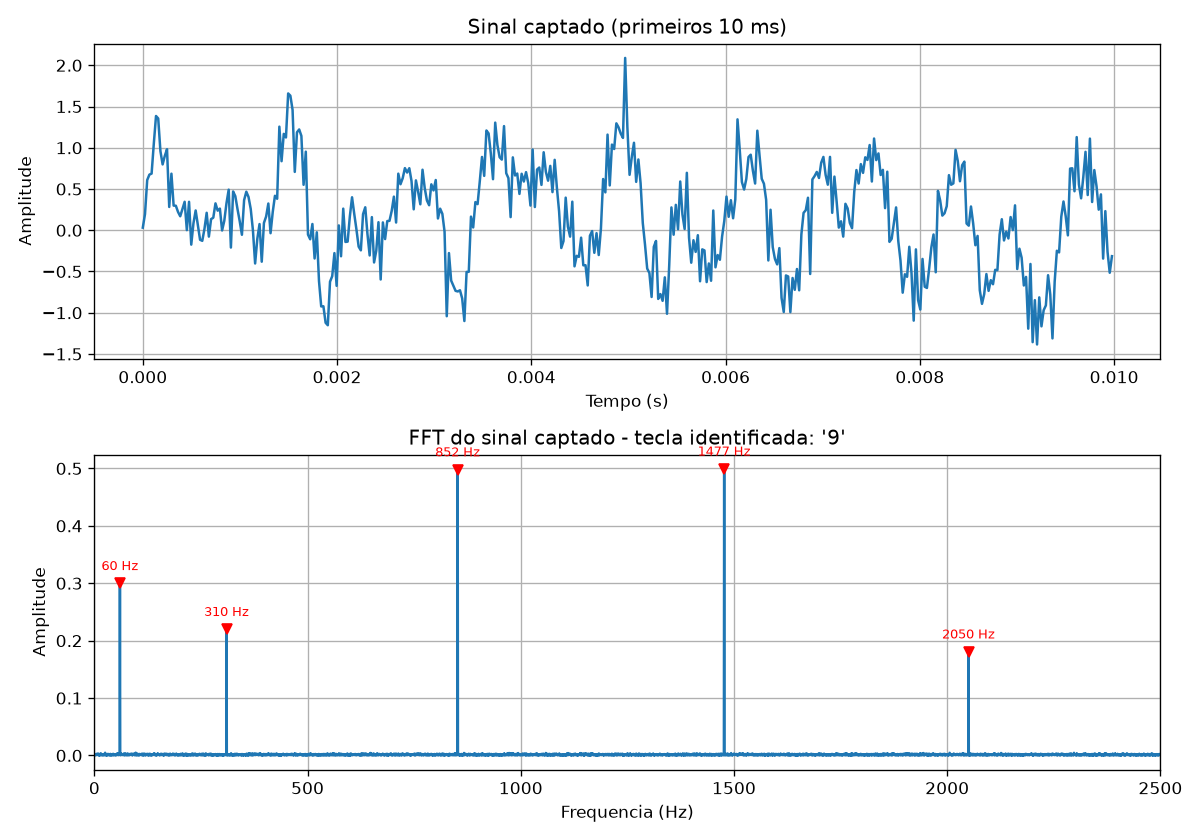
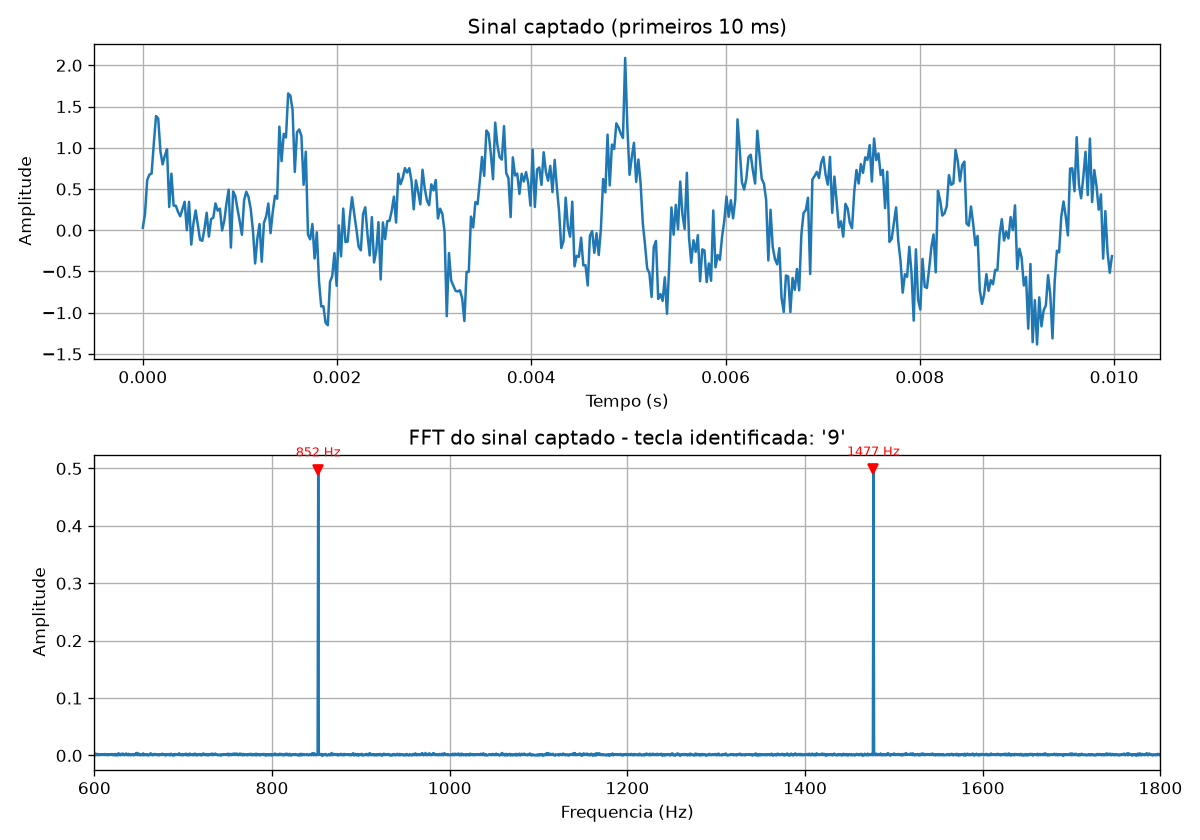
Restringe a deteccao de picos a faixa DTMF (600-1800 Hz)
O decoder varria o espectro inteiro a partir de 50 Hz, entao os tons
parasitas (60 Hz da rede, 310 Hz, 2050 Hz) disputavam as vagas de pico com
os proprios tons DTMF. Agora o espectro e recortado em FMIN..FMAX antes da
busca: a faixa cobre 697-941 Hz e 1209-1633 Hz com folga para a tolerancia
de 20 Hz, e o limiar passa a ser relativo ao maior pico dentro dela.

No teste com ruido os picos caem de 5 (1209, 697, 60, 310, 2050) para
apenas as 2 raias DTMF. O acerto nas 16 teclas sobe de 44/48 para 48/48 em
sigma=10 e de 0/48 para 12/48 em sigma=20.

O eixo dos graficos acompanha a mesma faixa.

diff --git a/decode.py b/decode.py
@@ -19,7 +19,8 @@ import numpy as np
 import matplotlib.pyplot as plt
 
 from suaBibSignal import signalMeu
-from dtmf import DTMF, FS, LINHAS, COLUNAS, tecla_de, tabela_str, ler_wav
+from dtmf import (DTMF, FS, FMIN, FMAX, LINHAS, COLUNAS, tecla_de,
+                  tabela_str, ler_wav)
 
 try:
     import peakutils
@@ -78,28 +79,41 @@ def simular(tecla, duracao=3.0, fs=FS, ruido=0.25, semente=0):
 
 
 # ------------------------------------------------------------------- picos
-def achar_picos(xf, yf, n=5, dist_hz=5.0, fmin=50.0):
+def achar_picos(xf, yf, n=5, dist_hz=5.0, fmin=FMIN, fmax=FMAX):
     """
     Devolve os n maiores picos de yf como [(freq, amplitude), ...].
+
+    Apenas o trecho fmin..fmax do espectro e analisado. Essa faixa cobre as 8
+    frequencias DTMF com folga e exclui o que nao pode ser um tom DTMF (60 Hz
+    da rede eletrica, ruido grave, ruido agudo). Recortar antes de procurar os
+    picos traz dois ganhos: o limiar de deteccao passa a ser relativo ao maior
+    pico DENTRO da faixa, e as n vagas nao sao gastas com ruido fora dela.
+
     Picos a menos de dist_hz de um pico maior ja aceito sao descartados
     (sao o mesmo pico alargado pela transmissao).
     """
     df = xf[1] - xf[0]
 
+    # recorta a faixa de interesse antes de procurar os picos
+    i0, i1 = np.searchsorted(xf, (fmin, fmax))
+    xb, yb = xf[i0:i1], yf[i0:i1]
+    if len(yb) < 3:
+        return []
+
     if TEM_PEAKUTILS:
-        idx = peakutils.indexes(yf, thres=0.05, min_dist=max(1, int(dist_hz / df)))
+        idx = peakutils.indexes(yb, thres=0.05, min_dist=max(1, int(dist_hz / df)))
     else:
         # fallback: maximos locais simples, caso peakutils nao esteja instalado
-        idx = np.where((yf[1:-1] > yf[:-2]) & (yf[1:-1] >= yf[2:]))[0] + 1
-        idx = idx[yf[idx] > 0.05 * yf.max()]
+        idx = np.where((yb[1:-1] > yb[:-2]) & (yb[1:-1] >= yb[2:]))[0] + 1
+        idx = idx[yb[idx] > 0.05 * yb.max()]
 
-    idx = [i for i in idx if xf[i] >= fmin]
-    idx.sort(key=lambda i: yf[i], reverse=True)   # do mais forte ao mais fraco
+    # do mais forte ao mais fraco
+    idx = sorted(idx, key=lambda i: yb[i], reverse=True)
 
     picos = []
     for i in idx:
-        if all(abs(xf[i] - f) > dist_hz for f, _ in picos):
-            picos.append((float(xf[i]), float(yf[i])))
+        if all(abs(xb[i] - f) > dist_hz for f, _ in picos):
+            picos.append((float(xb[i]), float(yb[i])))
         if len(picos) == n:
             break
     return picos
@@ -150,7 +164,7 @@ def plotar(dados, xf, yf, picos, fs=FS, tecla=None):
     ax2.set_title(titulo)
     ax2.set_xlabel("Frequencia (Hz)")
     ax2.set_ylabel("Amplitude")
-    ax2.set_xlim(0, 2500)
+    ax2.set_xlim(FMIN, FMAX)
     ax2.grid(True)
 
     fig.tight_layout()

diff --git a/encode.py b/encode.py
@@ -18,7 +18,7 @@ import numpy as np
 import matplotlib.pyplot as plt
 
 from suaBibSignal import signalMeu
-from dtmf import DTMF, FS, tabela_str, salvar_wav
+from dtmf import DTMF, FS, FMIN, FMAX, tabela_str, salvar_wav
 
 
 def signal_handler(signal, frame):
@@ -82,7 +82,7 @@ def plotar(t, tom, s1, s2, tecla, fs=FS):
     ax2.set_title("Transformada de Fourier do sinal transmitido")
     ax2.set_xlabel("Frequencia (Hz)")
     ax2.set_ylabel("Amplitude")
-    ax2.set_xlim(0, 2500)
+    ax2.set_xlim(FMIN, FMAX)
     ax2.grid(True)
 
     fig.tight_layout()

diff --git a/dtmf.py b/dtmf.py
@@ -10,6 +10,12 @@ BITS = 16           # bits por amostra na digitalizacao
 LINHAS = [697, 770, 852, 941]        # frequencias baixas  (linhas do teclado)
 COLUNAS = [1209, 1336, 1477, 1633]   # frequencias altas   (colunas do teclado)
 
+# Faixa util do espectro (Hz). Cobre as 8 frequencias DTMF com folga para a
+# tolerancia de 20 Hz (677..1653) e descarta o que nao pode ser tom DTMF:
+# zumbido de 60 Hz da rede, ruido grave e ruido agudo.
+FMIN = 600
+FMAX = 1800
+
 TECLADO = [
     ["1", "2", "3", "A"],
     ["4", "5", "6", "B"],

diff --git a/README.md b/README.md
@@ -60,13 +60,21 @@ harmônicos que não existem no sinal original.
 
 **Decoder.** O áudio gravado vem como matriz `numAmostras × canais`; os canais são
 combinados em uma lista só. A FFT é calculada com janela de Hann (reduz o
-vazamento espectral que alargaria os picos). Em seguida `peakutils.indexes` acha
-os máximos do espectro; os picos são ordenados do mais forte ao mais fraco e
-qualquer pico a menos de **5 Hz** de um pico maior já aceito é descartado — é o
-mesmo tom alargado pela transmissão, não um tom novo. Dos 5 picos mais fortes,
-procura-se o par que casa (tolerância de 20 Hz) com uma linha e uma coluna da
-tabela: esse par identifica a tecla. Os demais picos são ruído (rede elétrica,
-ruído ambiente).
+vazamento espectral que alargaria os picos).
+
+Antes de procurar os picos, o espectro é **recortado na faixa 600–1800 Hz**
+(`FMIN`/`FMAX` em `dtmf.py`). Essa faixa cobre as oito frequências DTMF com folga
+para a tolerância de 20 Hz — o extremo inferior exige 677 Hz e o superior 1653 Hz —
+e descarta tudo que não pode ser um tom DTMF: o zumbido de 60 Hz da rede elétrica,
+ruído grave e ruído agudo. O recorte traz dois ganhos: o limiar de detecção passa a
+ser relativo ao maior pico **dentro** da faixa, e as vagas de pico não são gastas
+com ruído de fora dela.
+
+Em seguida `peakutils.indexes` acha os máximos; os picos são ordenados do mais
+forte ao mais fraco e qualquer pico a menos de **5 Hz** de um pico maior já aceito
+é descartado — é o mesmo tom alargado pela transmissão, não um tom novo. Dos picos
+restantes, procura-se o par que casa (tolerância de 20 Hz) com uma linha e uma
+coluna da tabela: esse par identifica a tecla.
 
 ## Resultados dos testes
 
@@ -74,14 +82,35 @@ ruído ambiente).
 
 - 16/16 teclas reconhecidas no sinal limpo;
 - 16/16 com ruído branco + 3 tons parasitas (60 Hz, 310 Hz, 2050 Hz) mais fortes
-  que os tons DTMF em parte do espectro;
+  que os tons DTMF em parte do espectro. Com o recorte de faixa os parasitas nem
+  aparecem entre os picos: sobram só as duas raias DTMF;
 - ida e volta pelo WAV de 16 bits (digitalização real) sem erro;
 - a tecla 5 continua sendo reconhecida com ruído branco de σ = 4,0, ou seja,
   **8× a amplitude de cada senoide DTMF** — a FFT concentra a energia dos tons em
   duas raias, enquanto o ruído se espalha por todo o espectro.
 
+### Efeito do recorte de faixa
+
+Acerto nas 16 teclas × 3 sementes de ruído (48 casos por linha), comparando a
+varredura do espectro inteiro com o recorte em 600–1800 Hz:
+
+| σ do ruído | 50–22050 Hz | 600–1800 Hz |
+|---|---|---|
+| 4  | 48/48 | 48/48 |
+| 8  | 48/48 | 48/48 |
+| 10 | 44/48 | **48/48** |
+| 12 | 41/48 | **44/48** |
+| 16 | 10/48 | **19/48** |
+| 20 | 0/48  | **12/48** |
+| 25 | 0/48  | **4/48** |
+
+Até σ = 8 as duas são equivalentes: o ruído ainda não compete com os tons. A
+diferença aparece quando o ruído fica forte — em σ = 20 a varredura completa erra
+todos os casos, enquanto o recorte ainda acerta 1 em 4.
+
 Gráficos gerados: `encode_tecla_*.png` (sinal no tempo + FFT transmitida) e
-`decode_fft.png` (sinal captado + FFT com os picos marcados).
+`decode_fft.png` (sinal captado + FFT com os picos marcados). O eixo de
+frequência dos espectros mostra a faixa 600–1800 Hz, a mesma usada na detecção.
 
 ---
 
